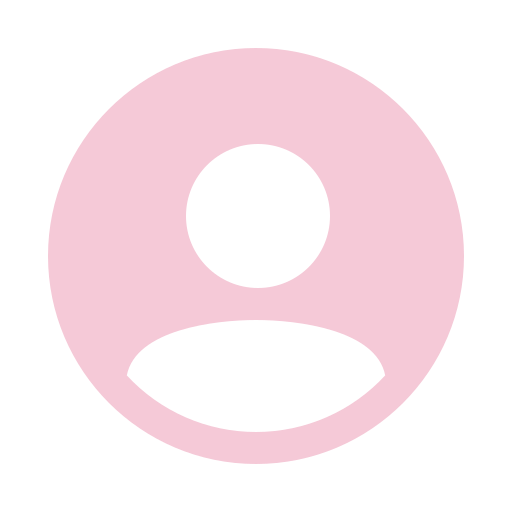
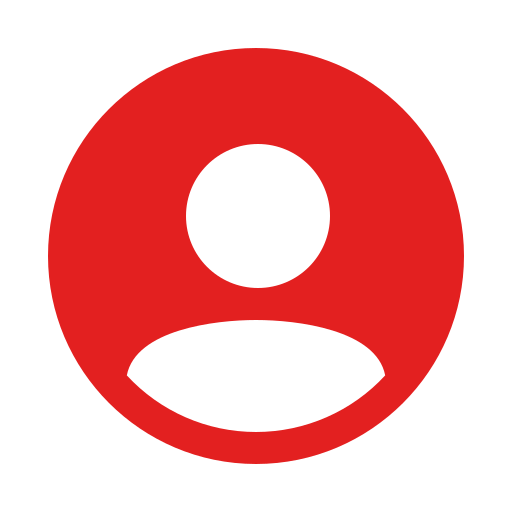
profil UI completed

diff --git a/lib/view/PageControl/page/control_page.dart b/lib/view/PageControl/page/control_page.dart
@@ -1,4 +1,5 @@
 import 'package:afiyetlistesi/core/font_set.dart';
+import 'package:afiyetlistesi/externalPackage/dotted_frame.dart';
 import 'package:afiyetlistesi/product/project_photo.dart';
 import 'package:flutter/material.dart';
 import 'package:afiyetlistesi/core/color_set.dart';
@@ -21,19 +22,13 @@ class _PageControlViewState extends State<PageControlView> {
   int _currentPage = _PageName.home.index;
   bool _isEditing = false;
 
-  void _changeLoading() {
-    setState(() {
-      _isEditing = !_isEditing;
-    });
-  }
-
   @override
   Widget build(BuildContext context) {
     return Scaffold(
       backgroundColor: PageColors.mainPageColor,
       appBar: AppBar(
         title: Text(_getPageTitle(_currentPage)),
-        actions: _currentPage == _PageName.profile.index // Profil sayfası
+        actions: _currentPage == _PageName.profile.index
             ? [
                 IconButton(
                   icon: _isEditing
@@ -46,37 +41,54 @@ class _PageControlViewState extends State<PageControlView> {
               ]
             : [],
       ),
-      body: _buildPageViewFunc(),
+      body: PageView(
+        physics: const NeverScrollableScrollPhysics(),
+        controller: _pageController,
+        onPageChanged: (int index) {
+          _pageChange(index);
+        },
+        children: [
+          const HomePageView(),
+          const FavoritePageView(),
+          PersonPageView(
+            isEditing: _isEditing,
+          ),
+          const FoodPageView(),
+        ],
+      ),
       bottomNavigationBar: _BuildCardBottomNavWidget(
         pageController: _pageController,
         currentPage: _currentPage,
       ),
-      drawer: const _BuildDrawerWidget(
+      drawer: _BuildDrawerWidget(
         profilName: ProjectWords.profilName,
         profilEmail: ProjectWords.profilEmail,
         imageUrl: ProjectWords.profilPhotoUrl,
+        onTap: () {
+          _profilOpen(_PageName.profile.index);
+        },
       ),
     );
   }
 
-  PageView _buildPageViewFunc() {
-    return PageView(
-      physics: const NeverScrollableScrollPhysics(),
-      controller: _pageController,
-      onPageChanged: (int index) {
-        setState(() {
-          _currentPage = index;
-        });
-      },
-      children: [
-        const HomePageView(),
-        const FavoritePageView(),
-        PersonPageView(
-          isEditing: _isEditing,
-        ),
-        const FoodPageView(),
-      ],
-    );
+  //profil func
+  void _profilOpen(int index) {
+    setState(() {
+      _pageChange(index);
+    });
+  }
+
+  //profil func
+  void _changeLoading() {
+    setState(() {
+      _isEditing = !_isEditing;
+    });
+  }
+
+  void _pageChange(int index) {
+    setState(() {
+      _currentPage = index;
+    });
   }
 
   String _getPageTitle(int page) {
@@ -97,10 +109,12 @@ class _PageControlViewState extends State<PageControlView> {
 
 class _BuildCardBottomNavWidget extends StatelessWidget {
   const _BuildCardBottomNavWidget({
+    Key? key,
     required PageController pageController,
     required int currentPage,
   })  : _pageController = pageController,
-        _currentPage = currentPage;
+        _currentPage = currentPage,
+        super(key: key);
 
   final PageController _pageController;
   final int _currentPage;
@@ -152,43 +166,45 @@ class _BuildCardBottomNavWidget extends StatelessWidget {
       ),
     );
   }
-}
 
-_bottomNavIconItem(
-  int pageIndex,
-  IconData icon,
-  PageController pageControl,
-  int current,
-) {
-  final pageController = pageControl;
-  final currentPage = current;
-  return IconButton(
-    onPressed: () {
-      pageController.animateToPage(
-        pageIndex,
-        duration: const Duration(seconds: 1),
-        curve: Curves.decelerate,
-      );
-    },
-    icon: Icon(
-      icon,
-      color: currentPage == pageIndex
-          ? PageColors.activeIconColor
-          : PageColors.deactiveIconColor,
-    ),
-  );
+  _bottomNavIconItem(
+    int pageIndex,
+    IconData icon,
+    PageController pageControl,
+    int current,
+  ) {
+    final pageController = pageControl;
+    final currentPage = current;
+    return IconButton(
+      onPressed: () {
+        pageController.animateToPage(
+          pageIndex,
+          duration: const Duration(seconds: 1),
+          curve: Curves.decelerate,
+        );
+      },
+      icon: Icon(
+        icon,
+        color: currentPage == pageIndex
+            ? PageColors.activeIconColor
+            : PageColors.deactiveIconColor,
+      ),
+    );
+  }
 }
 
 class _BuildDrawerWidget extends StatefulWidget {
   final String profilName;
   final String profilEmail;
   final String imageUrl;
+  final void Function() onTap;
 
   const _BuildDrawerWidget({
     Key? key,
     required this.profilName,
     required this.profilEmail,
     required this.imageUrl,
+    required this.onTap,
   }) : super(key: key);
 
   @override
@@ -220,30 +236,42 @@ class _BuildDrawerWidgetState extends State<_BuildDrawerWidget> {
               title: ProjectWords.profilEmail,
               limit: PageItemSize.textLimit2x,
             ),
-            currentAccountPicture: Card(
-              shape: const CircleBorder(
-                side: BorderSide(
-                  color: PageColors.activeIconColor,
-                  width: PageItemSize.textFieldBorderSize,
-                ),
-              ),
-              child: CircleAvatar(
-                child: AspectRatio(
-                  aspectRatio: 1,
-                  child: ClipOval(
-                    child: widget.imageUrl.isNotEmpty
-                        ? Image.network(
-                            widget.imageUrl,
-                            fit: BoxFit.cover,
-                            errorBuilder: (context, error, stackTrace) {
-                              return const Center(
-                                child: CircularProgressIndicator(),
-                              );
-                            },
-                          )
-                        : const Center(
-                            child: CircularProgressIndicator(),
-                          ),
+            currentAccountPicture: CircleAvatar(
+              backgroundColor: PageColors.deactivedButtonColor,
+              child: DottedFrame(
+                child: ClipOval(
+                  child: AspectRatio(
+                    aspectRatio: 1,
+                    child: InkWell(
+                      onTap: () {
+                        widget.onTap();
+                        Navigator.pop(context);
+                      },
+                      child: widget.imageUrl.isNotEmpty
+                          ? Image.network(
+                              widget.imageUrl,
+                              fit: BoxFit.cover,
+                              errorBuilder: (context, error, stackTrace) {
+                                return const Center(
+                                  child: CircularProgressIndicator(),
+                                );
+                              },
+                            )
+                          : Center(
+                              child: SizedBox(
+                                height:
+                                    MediaQuery.of(context).size.height * 0.3,
+                                width: MediaQuery.of(context).size.width * 0.80,
+                                child: const CircleAvatar(
+                                  backgroundColor:
+                                      PageColors.deactivedButtonColor,
+                                  backgroundImage: AssetImage(
+                                    ProjectPhotos.profilPhotoUpdateUrl,
+                                  ),
+                                ),
+                              ),
+                            ),
+                    ),
                   ),
                 ),
               ),

diff --git a/lib/view/Person/page/persone_page.dart b/lib/view/Person/page/persone_page.dart
@@ -3,6 +3,7 @@ import 'package:afiyetlistesi/core/inputbar_widget.dart';
 import 'package:afiyetlistesi/core/item_size.dart';
 import 'package:afiyetlistesi/core/mail_text_field.dart';
 import 'package:afiyetlistesi/core/password_text_field.dart';
+import 'package:afiyetlistesi/externalPackage/dotted_frame.dart';
 import 'package:afiyetlistesi/product/project_photo.dart';
 import 'package:afiyetlistesi/product/project_words.dart';
 import 'package:flutter/material.dart';
@@ -30,33 +31,39 @@ class _PersonPageViewState extends State<PersonPageView> {
                 height: MediaQuery.of(context).size.height * 0.30,
                 width: MediaQuery.of(context).size.width * 0.80,
                 child: CircleAvatar(
-                  child: ClipOval(
-                    child: InkWell(
-                      onTap: () {},
+                  backgroundColor: PageColors.deactivedButtonColor,
+                  child: DottedFrame(
+                    child: ClipOval(
                       child: AspectRatio(
                         aspectRatio: 1,
-                        child: ProjectWords.profilPhotoUrl.isNotEmpty
-                            ? Image.network(
-                                ProjectWords.profilPhotoUrl,
-                                fit: BoxFit.cover,
-                                errorBuilder: (context, error, stackTrace) {
-                                  return const Center(
-                                    child: CircularProgressIndicator(),
-                                  );
-                                },
-                              )
-                            : Center(
-                                child: SizedBox(
-                                  height:
-                                      MediaQuery.of(context).size.height * 0.30,
-                                  width:
-                                      MediaQuery.of(context).size.width * 0.80,
-                                  child: const CircleAvatar(
-                                    backgroundImage: AssetImage(
-                                        ProjectPhotos.profilPhotoUpdateUrl),
+                        child: InkWell(
+                          onTap: () {},
+                          child: ProjectWords.profilPhotoUrl.isNotEmpty
+                              ? Image.network(
+                                  ProjectWords.profilPhotoUrl,
+                                  fit: BoxFit.cover,
+                                  errorBuilder: (context, error, stackTrace) {
+                                    return const Center(
+                                      child: CircularProgressIndicator(),
+                                    );
+                                  },
+                                )
+                              : Center(
+                                  child: SizedBox(
+                                    height: MediaQuery.of(context).size.height *
+                                        0.3,
+                                    width: MediaQuery.of(context).size.width *
+                                        0.80,
+                                    child: const CircleAvatar(
+                                      backgroundColor:
+                                          PageColors.deactivedButtonColor,
+                                      backgroundImage: AssetImage(
+                                        ProjectPhotos.profilPhotoUpdateUrl,
+                                      ),
+                                    ),
                                   ),
                                 ),
-                              ),
+                        ),
                       ),
                     ),
                   ),

diff --git a/lib/externalPackage/dotted_frame.dart b/lib/externalPackage/dotted_frame.dart
@@ -1,0 +1,22 @@
+import 'package:afiyetlistesi/core/color_set.dart';
+import 'package:afiyetlistesi/core/item_size.dart';
+import 'package:dotted_border/dotted_border.dart';
+import 'package:flutter/material.dart';
+
+class DottedFrame extends StatelessWidget {
+  final Widget child;
+  const DottedFrame({super.key, required this.child});
+
+  @override
+  Widget build(BuildContext context) {
+    return DottedBorder(
+      dashPattern: const [8, 4],
+      strokeWidth: 2,
+      borderType: BorderType.Circle,
+      radius: PageItemSize.fullRadius(),
+      color: PageColors.cardColor2,
+      child: child,
+      padding: EdgeInsets.all(5),
+    );
+  }
+}
